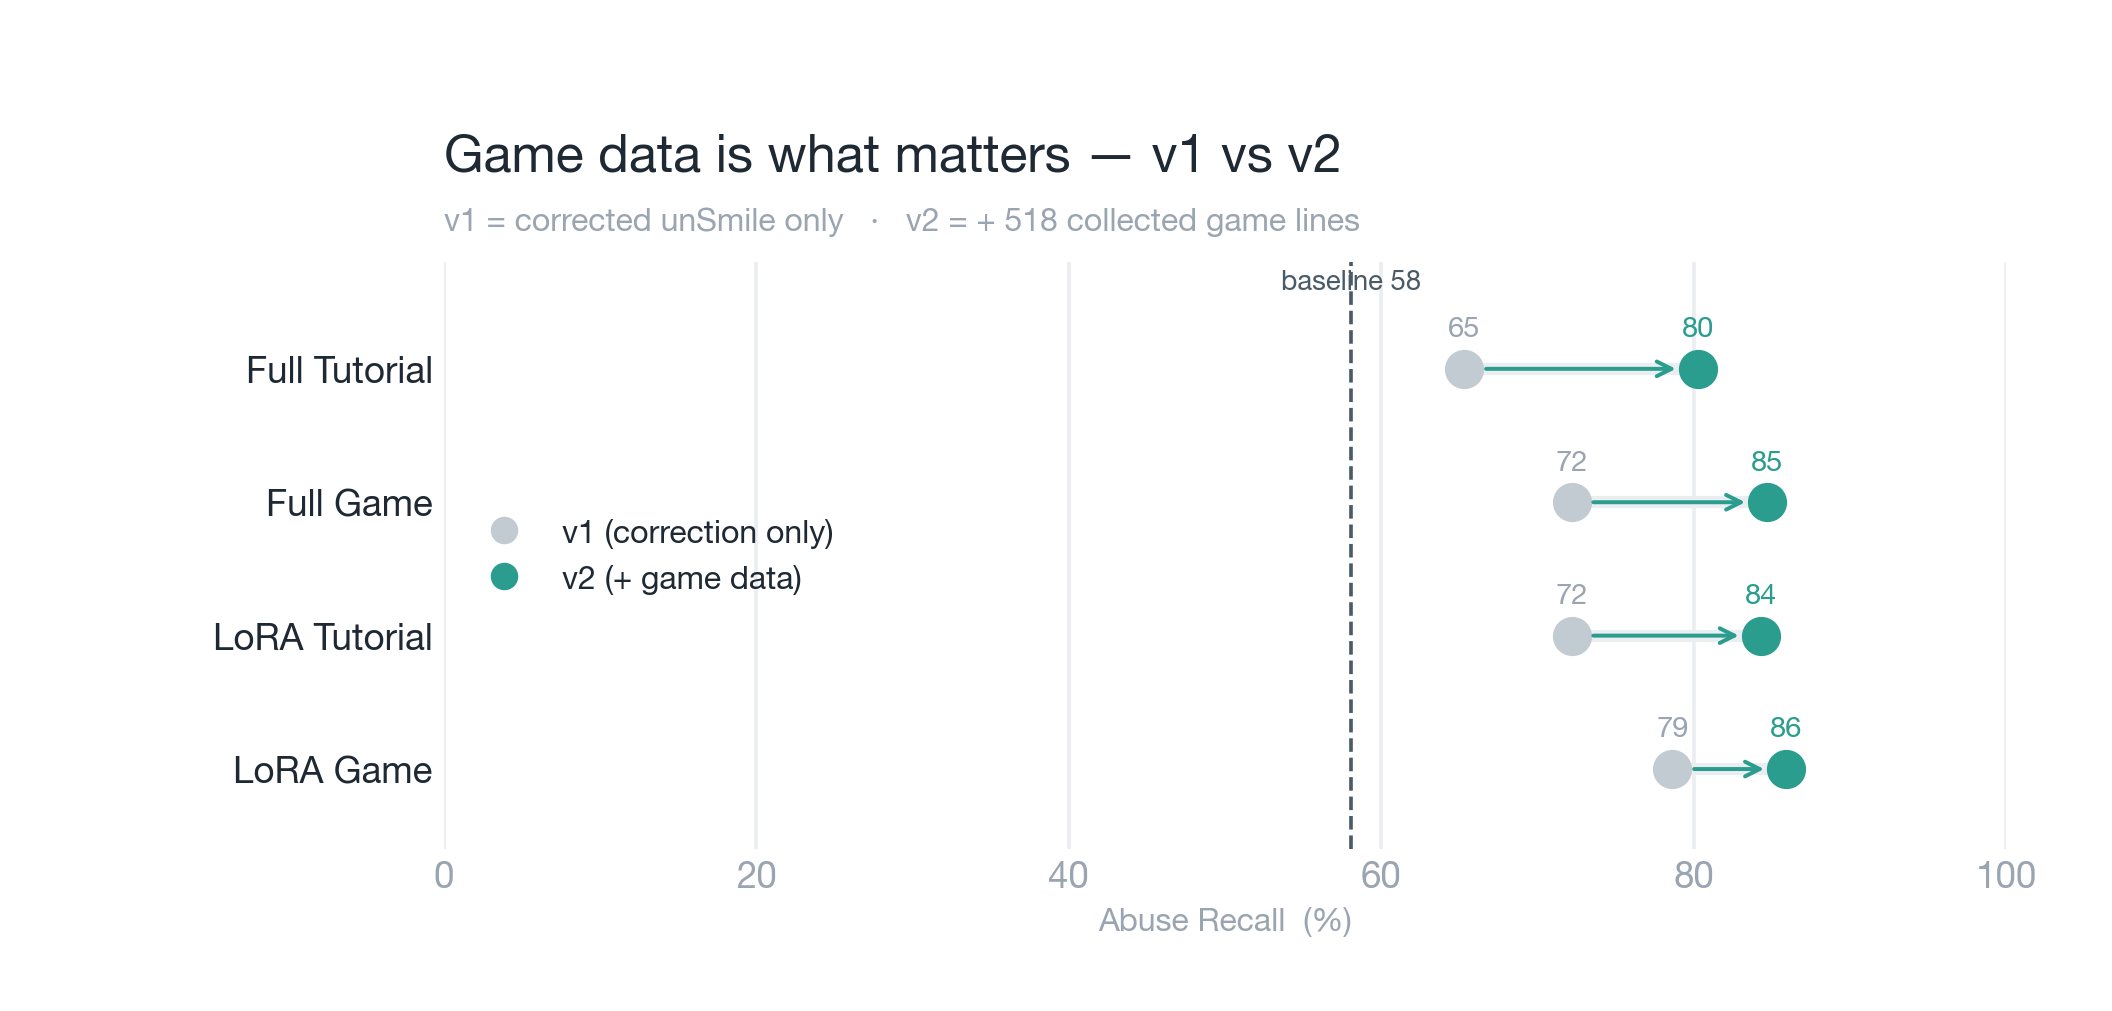
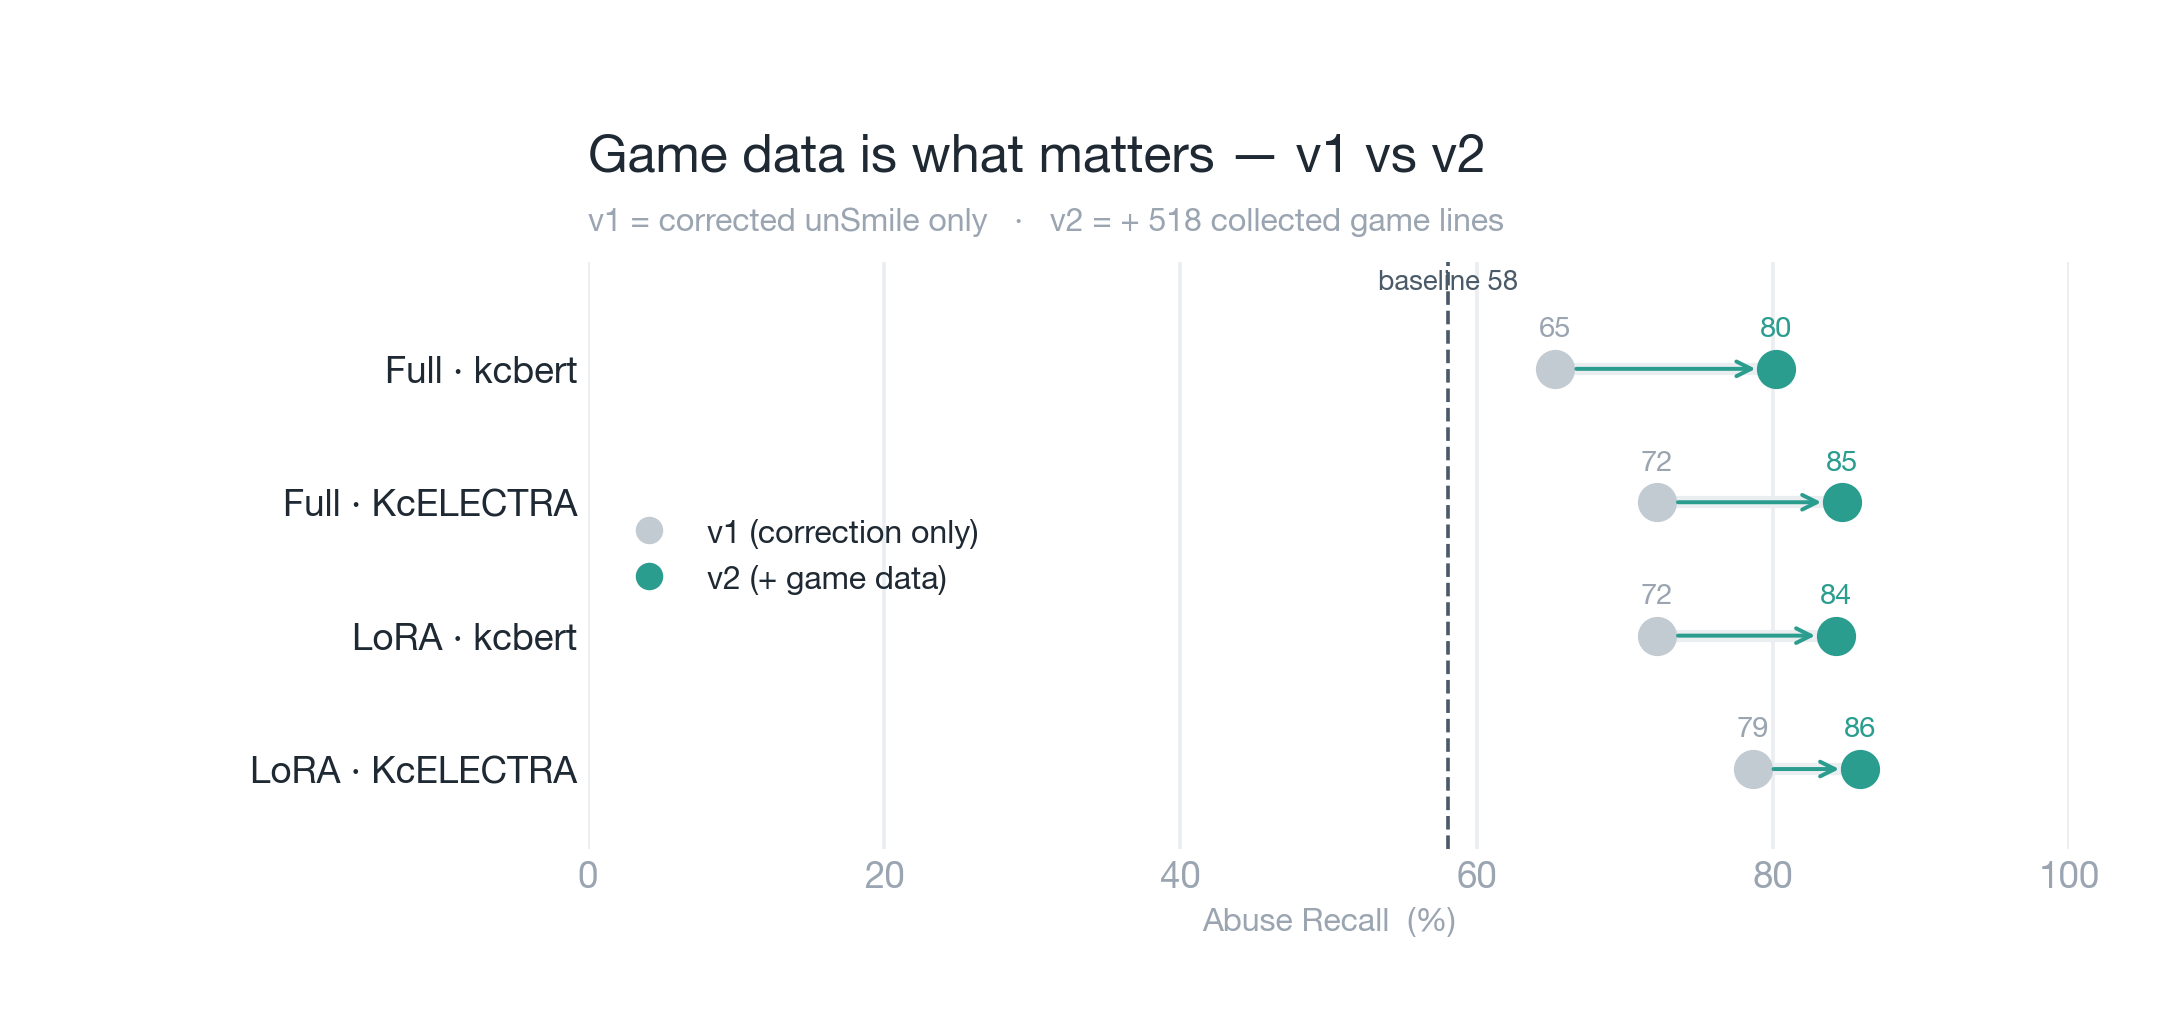
📝 [AI] docs: 모델명 명시 — Game=KcELECTRA·Tutorial=kcbert base 모델임을 명명규칙+표+차트에 표기

diff --git a/6_Model_Comparison/plot_comparison.py b/6_Model_Comparison/plot_comparison.py
@@ -22,6 +22,9 @@ WARN = "#C2703D"  # 정밀도 하락(작은 비용) 표시용
 
 SELECTED = "Full v2 Game"   # F1·LRAP·Precision 1위 → Step 1 기준(F1·정밀도)과 일관
 
+def _disp(m):   # 표시명: Game/Tutorial은 base 모델이므로 명시 (Game=KcELECTRA, Tutorial=kcbert)
+    return m.replace("Game", "KcELECTRA").replace("Tutorial", "kcbert")
+
 STR = {
  "en": {"h_title":"Fine-tuning lifts abuse recall","h_word":"fine-tuned up to","h_xlabel":"Abuse Recall  (%)",
         "before":"baseline","selected":"selected",
@@ -53,12 +56,12 @@ def chart_headline(df, path, t):
     base_r = float(df[df["model"]=="Baseline"]["abuse_recall"].iloc[0])*100
     max_r = float(d["abuse_recall"].max())*100
     n = len(d); y = np.arange(n)
-    fig, ax = plt.subplots(figsize=(9.6, 0.52*n+2.0))
-    fig.subplots_adjust(left=0.27, right=0.965, top=1-1.5/(0.52*n+2.0), bottom=1.0/(0.52*n+2.0))
+    fig, ax = plt.subplots(figsize=(9.9, 0.52*n+2.0))
+    fig.subplots_adjust(left=0.30, right=0.965, top=1-1.5/(0.52*n+2.0), bottom=1.0/(0.52*n+2.0))
     colors=[SLATE if m=="Baseline" else (ACCENT if m==SELECTED else NEUTRAL) for m in d["model"]]
     ax.barh(y, d["abuse_recall"]*100, height=0.62, color=colors, zorder=3)
     ax.axvline(base_r, color=SLATE, ls="--", lw=1.3, zorder=2)
-    ax.set_yticks(y); ax.set_yticklabels(d["model"], fontsize=12)
+    ax.set_yticks(y); ax.set_yticklabels([_disp(m) for m in d["model"]], fontsize=12)
     for tick,m in zip(ax.get_yticklabels(), d["model"]):
         if m=="Baseline": tick.set_color(SLATE)
         if m==SELECTED: tick.set_fontweight("bold")
@@ -85,7 +88,7 @@ def chart_tradeoff(df, path, t):
     labels=["Precision","Recall","F1"]; x=np.arange(3); w=0.36
     fig,ax=plt.subplots(figsize=(9.2,5.0)); fig.subplots_adjust(left=0.08,right=0.96,top=0.78,bottom=0.13)
     ax.bar(x-w/2, base, w, color=NEUTRAL, zorder=3, label=t["before"])
-    ax.bar(x+w/2, sel,  w, color=ACCENT,  zorder=3, label=f"{t['selected']} · Full v2 Game")
+    ax.bar(x+w/2, sel,  w, color=ACCENT,  zorder=3, label=f"{t['selected']} · {_disp(SELECTED)}")
     for xi,(b,s) in enumerate(zip(base,sel)):
         ax.text(xi-w/2, b+1.2, f"{b:.0f}", ha="center", color=SUB, fontsize=11)
         ax.text(xi+w/2, s+1.2, f"{s:.0f}", ha="center", color=INK, fontsize=11, fontweight="bold")
@@ -100,14 +103,14 @@ def chart_tradeoff(df, path, t):
 
 # ── ③ v1 vs v2 ─────────────────────────────────────────────────────────────
 def chart_v1v2(df, path, t):
-    combos=[("LoRA Game","LoRA v1 Game","LoRA v2 Game"),("LoRA Tutorial","LoRA v1 Tutorial","LoRA v2 Tutorial"),
-            ("Full Game","Full v1 Game","Full v2 Game"),("Full Tutorial","Full v1 Tutorial","Full v2 Tutorial")]
+    combos=[("LoRA · KcELECTRA","LoRA v1 Game","LoRA v2 Game"),("LoRA · kcbert","LoRA v1 Tutorial","LoRA v2 Tutorial"),
+            ("Full · KcELECTRA","Full v1 Game","Full v2 Game"),("Full · kcbert","Full v1 Tutorial","Full v2 Tutorial")]
     def rec(m):
         r=df[df["model"]==m]["abuse_recall"]; return float(r.iloc[0])*100 if len(r) else np.nan
     rows=[(lab,rec(v1),rec(v2)) for lab,v1,v2 in combos]
     base_r=float(df[df["model"]=="Baseline"]["abuse_recall"].iloc[0])*100
     n=len(rows); y=np.arange(n)
-    fig,ax=plt.subplots(figsize=(9.6,4.6)); fig.subplots_adjust(left=0.21,right=0.95,top=0.74,bottom=0.16)
+    fig,ax=plt.subplots(figsize=(9.9,4.6)); fig.subplots_adjust(left=0.27,right=0.95,top=0.74,bottom=0.16)
     for i,(lab,v1,v2) in enumerate(rows):
         ax.plot([v1,v2],[i,i],color=GRID,lw=4,zorder=1,solid_capstyle="round")
         ax.scatter(v1,i,s=140,color=NEUTRAL,zorder=3); ax.scatter(v2,i,s=140,color=ACCENT,zorder=3)
